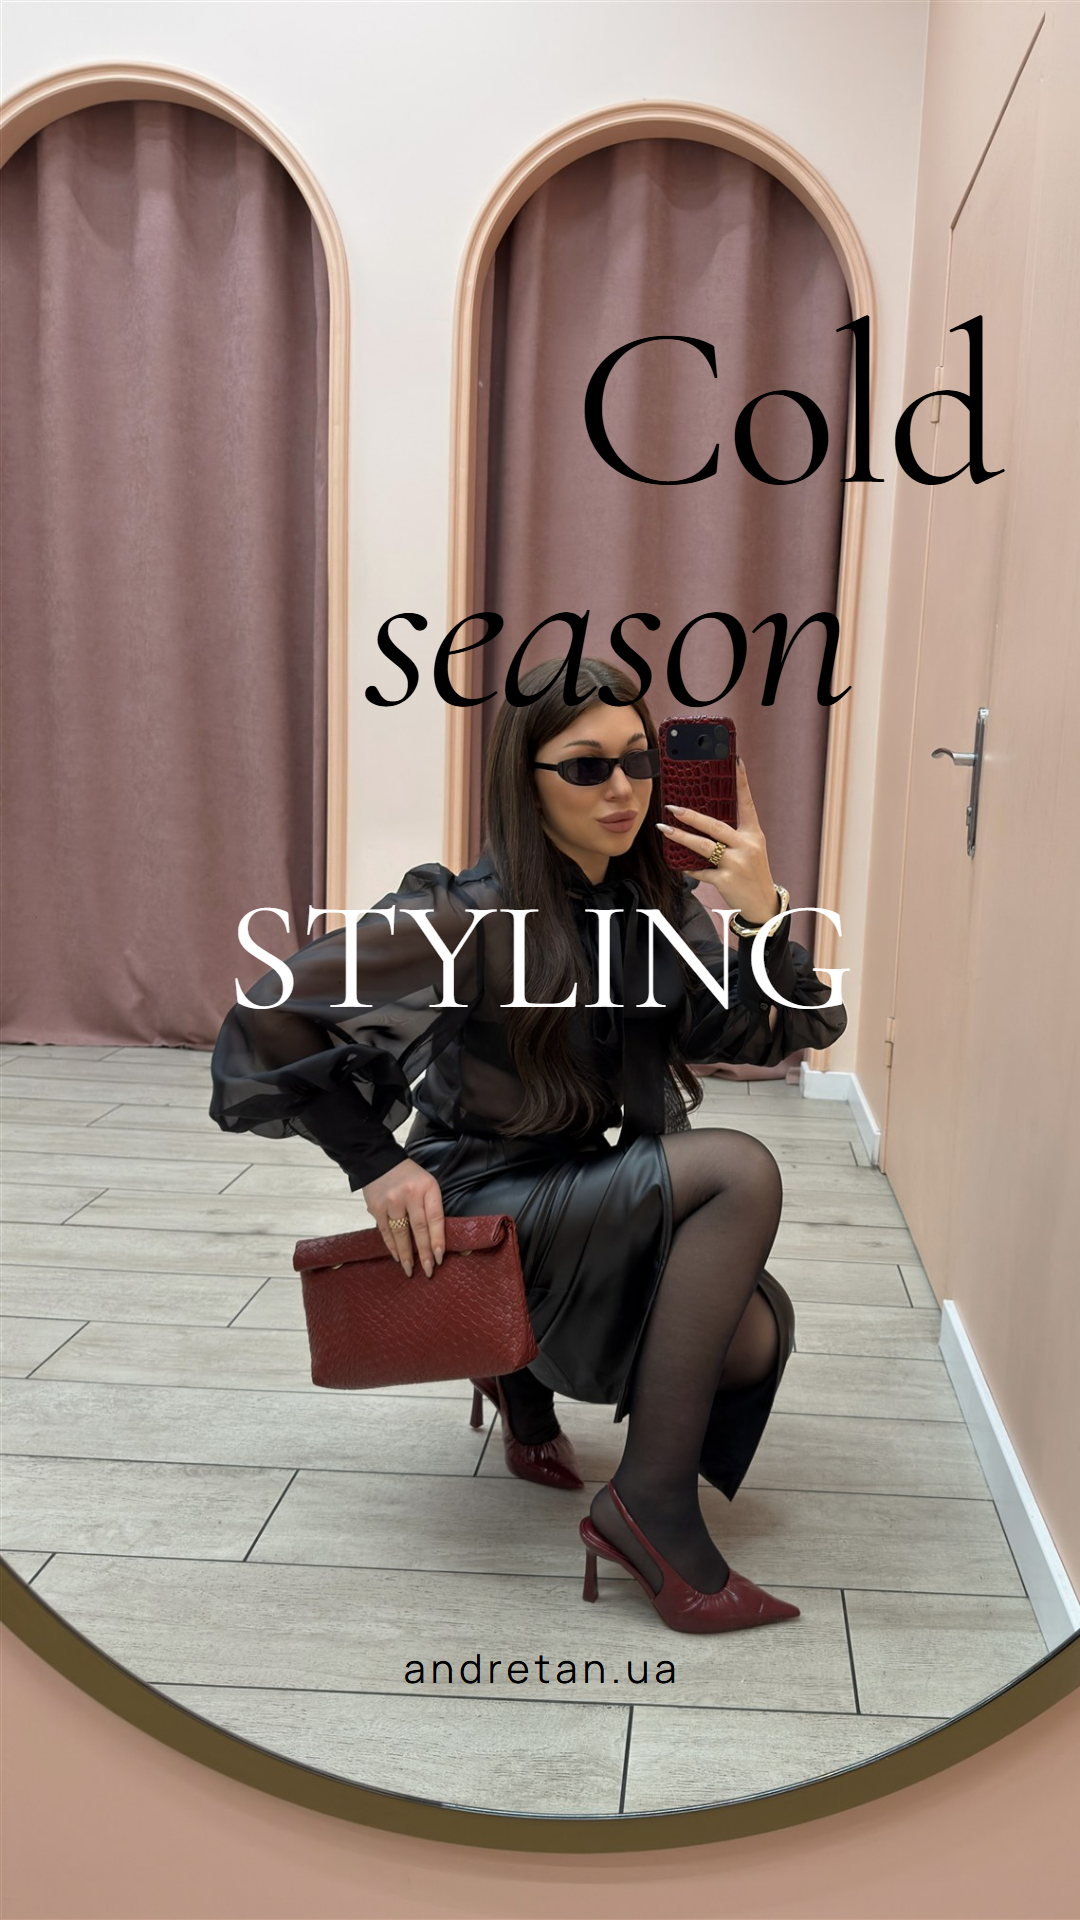
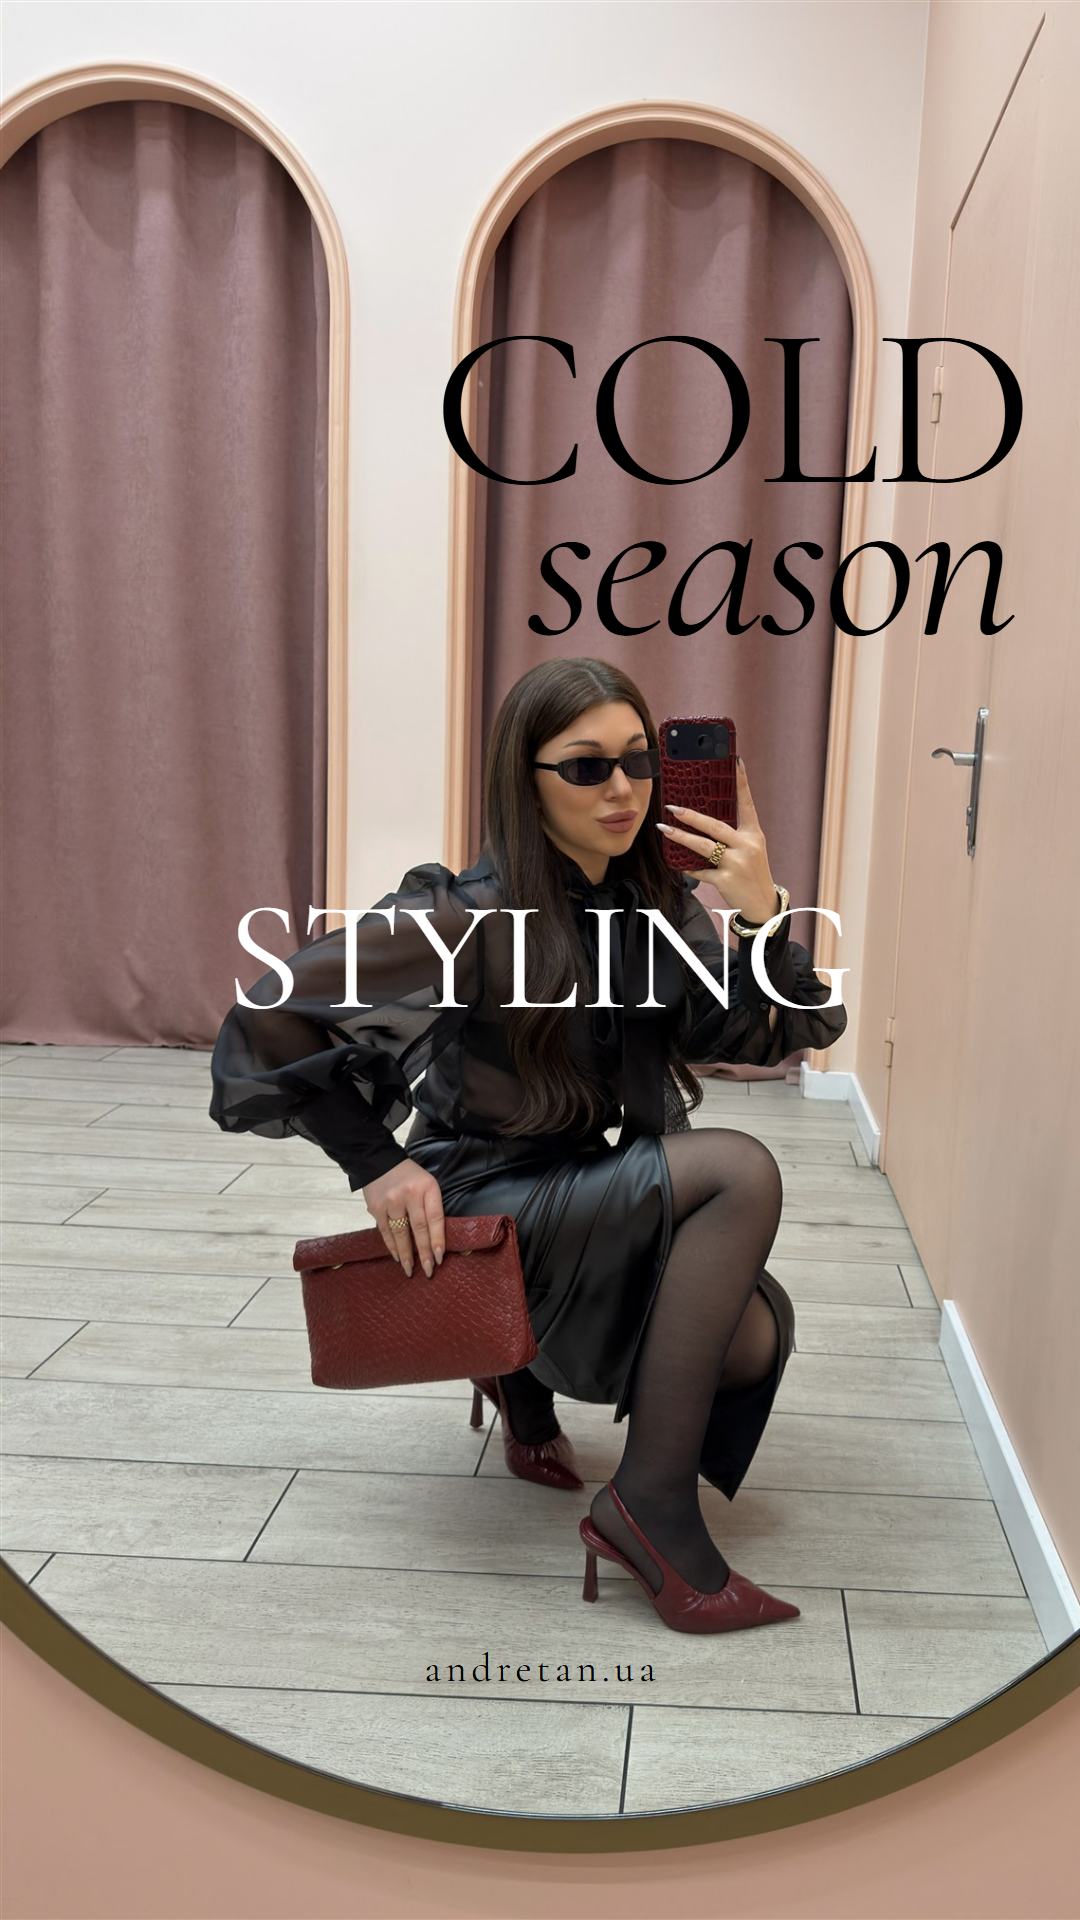
Story: Cold Season Styling Looks Cover, edits from the editor

diff --git a/design-system/posts/cold-season-looks-cover.html b/design-system/posts/cold-season-looks-cover.html
@@ -20,11 +20,11 @@
   <div class="layer pad-story">
     <!-- «Cold» праворуч, «season» курсивом під ним зі зсувом; велике «STYLING» білим поверх фото -->
     <div class="stack end" style="margin-top:60px">
-      <div class="t-cover" data-t="title" data-label="Заголовок">Cold</div>
-      <div class="t-cover t-cover-italic" style="margin-right:150px" data-t="italic" data-label="Курсивне слово">season</div>
+      <div class="t-cover" data-label="Заголовок" data-t="title" style="translate: 29px;">COLD</div>
+      <div class="t-cover t-cover-italic" style="margin-right: 150px; translate: 163px -71px;" data-label="Курсивне слово" data-t="italic">season</div>
     </div>
-    <div class="t-cover-l c-inverse" style="align-self:center;margin-top:150px" data-t="brand" data-label="Великий напис">Styling</div>
-    <div class="logo mt-auto" style="align-self:center;margin-bottom:-110px" data-t="site" data-label="Сайт">andretan.ua</div>
+    <div class="t-cover-l c-inverse" style="align-self:center;margin-top:150px" data-label="Великий напис" data-t="brand">Styling</div>
+    <div class="logo mt-auto" style="align-self:center;margin-bottom:-110px" data-label="Сайт" data-t="site"><span class="ff ff-cormorant" data-ff="cormorant">andretan.ua</span></div>
   </div>
 </div>
 
